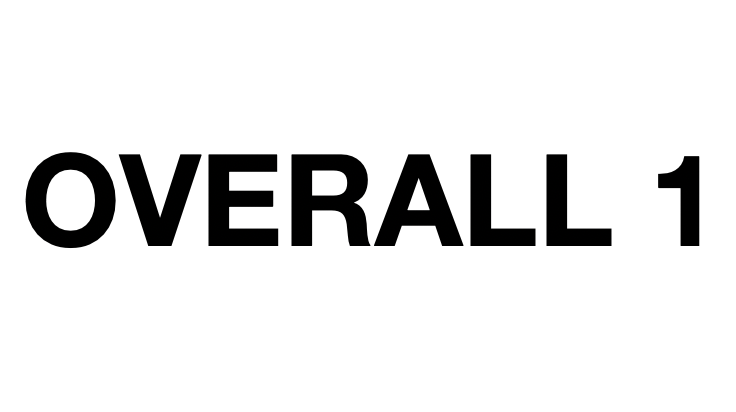
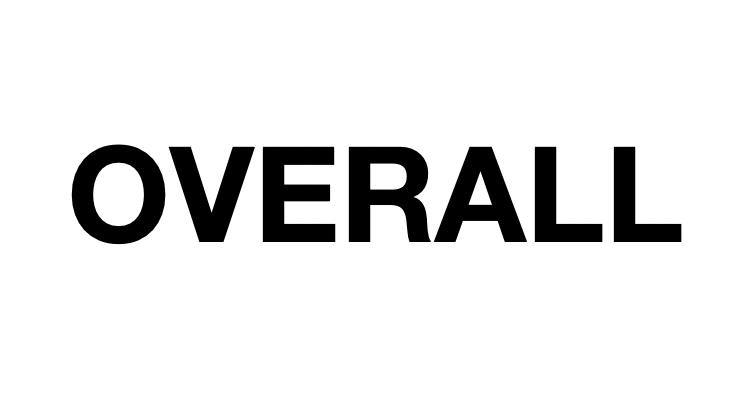
update

Changed region(s): [[0.0312, 0.3495, 0.9688, 0.6117]]

diff --git a/Miscellaneous Level /Miscellaneous.html b/Miscellaneous Level /Miscellaneous.html
@@ -133,7 +133,7 @@
         <li>writing-mode</li>
       </div>
 
-      <h4>Table</h4>
+      <h4><a href="https://devdocs.io/css/css_table">Table >></a></h4>
       <div>
         <li>border-collapse</li>
         <li>border-spacing</li>
@@ -143,7 +143,9 @@
         <li>vertical-align</li>
       </div>
 
-      <h4>Positioning</h4>
+      <h4>
+        <a href="https://devdocs.io/css/css_positioning">Positioning >></a>
+      </h4>
       <div>
         <li>bottom</li>
         <li>clear</li>
@@ -155,7 +157,7 @@
         <li>z-index</li>
       </div>
 
-      <h4>Overflow</h4>
+      <h4><a href="https://devdocs.io/css/css_overflow">Overflow >></a></h4>
       <div>
         <li>overflow</li>
         <li>overflow-block</li>
@@ -212,7 +214,7 @@
     </div>
 
     <!------------------------------------------------------------------------------ overall -->
-    <div class="h1"><h1>Miscellaneous Level 1 Overall</h1></div>
+    <div class="h1"><h1>Miscellaneous Level Overall</h1></div>
     <div class="overall">
       <ol>
         <!-- --------------------------------------------------- -->
@@ -595,112 +597,89 @@
           <li>Hash mark (#): bold smaller#</li>
           <li>Exclamation point (!): [ bold? smaller? ]!</li>
         </ul>
-      </ol>
 
-      <!--  -->
-      <a href=""><li>actual value</li></a>
-      <ol>
-        <li>
-          First, the specified value is determined based on the result of
-          cascading, inheritance, or using the initial value.
-        </li>
-        <li>
-          Next, the computed value is calculated according to the specification
-          (for example, a span with position: absolute will have its computed
-          display changed to block).
-        </li>
-        <li>Then, layout is calculated, resulting in the used value.</li>
-        <li>
-          Finally, the used value is transformed according to the limitations of
-          the local environment, resulting in the actual value.
-        </li>
-      </ol>
-      <!--  -->
-      <a href=""><li>computed value</li></a>
-      <ol>
-        <li>
-          Handling the special values inherit, initial, unset, and revert.
-        </li>
-        <li>
-          Doing the computation needed to reach the value described in the
-          "Computed value" line in the property's definition table.
-        </li>
-      </ol>
-      <!--  -->
-      <a href=""><li>used value</li></a>
+        <!--  -->
+        <a href=""><li>actual value</li></a>
+        <ol>
+          <li>
+            First, the specified value is determined based on the result of
+            cascading, inheritance, or using the initial value.
+          </li>
+          <li>
+            Next, the computed value is calculated according to the
+            specification (for example, a span with position: absolute will have
+            its computed display changed to block).
+          </li>
+          <li>Then, layout is calculated, resulting in the used value.</li>
+          <li>
+            Finally, the used value is transformed according to the limitations
+            of the local environment, resulting in the actual value.
+          </li>
+        </ol>
+        <!--  -->
+        <a href=""><li>computed value</li></a>
+        <ol>
+          <li>
+            Handling the special values inherit, initial, unset, and revert.
+          </li>
+          <li>
+            Doing the computation needed to reach the value described in the
+            "Computed value" line in the property's definition table.
+          </li>
+        </ol>
+        <!--  -->
+        <a href=""><li>used value</li></a>
+        <!--  -->
+        <a href=""><li>specified value</li></a>
+        <ol>
+          <li>
+            If the document's style sheet explicitly specifies a value for the
+            property, the given value will be used.
+          </li>
+          <li>
+            If the document's style sheet doesn't specify a value but it is an
+            inherited property, the value will be taken from the parent element.
+          </li>
+          <li>
+            If none of the above pertain, the element's initial value will be
+            used.
+          </li>
+        </ol>
+        <!--  -->
+        <a href=""
+          ><li>
+            attr(string | color | url | integer | number | length | em, ex, px,
+            rem, vw, vh, vmin, vmax, mm, cm, in, pt, or pc | angle | deg, grad,
+            rad | time | s,ms | frequency | Hz, kHz | % | )
+          </li></a
+        >
+        <!--  -->
+        <a href=""><li>counter()</li></a>
+        <ul>
+          <a href=""><li>counter-increment</li></a>
+          <a href=""><li>counter-reset</li></a>
+          <a href=""><li>counters()</li></a>
+        </ul>
+        <!--  -->
+        <a href=""
+          ><li>
+            unicode-bidi(together with the direction property, overrides this
+            algorithm and allows the developer to control the text embedding.):
+            normal | embed | bidi-override | isolate | isolate-override |
+            plaintext
+          </li></a
+        >
+        <!--  -->
+        <a href=""
+          ><li>
+            white-space: normal | nowrap | pre | pre-wrap | pre-line |
+            break-spaces
+          </li></a
+        >
 
-      <!--  -->
-      <a href=""
-        ><li>
-          attr(string | color | url | integer | number | length | em, ex, px,
-          rem, vw, vh, vmin, vmax, mm, cm, in, pt, or pc | angle | deg, grad,
-          rad | time | s,ms | frequency | Hz, kHz | % | )
-        </li></a
-      >
-      <a href=""><li>counter()</li></a>
-      <ul>
-        <a href=""><li>counter-increment</li></a>
-        <a href=""><li>counter-reset</li></a>
-        <a href=""><li>counters()</li></a>
-      </ul>
-
-      <a href=""><li>specified value</li></a>
-      <ol>
-        <li>
-          If the document's style sheet explicitly specifies a value for the
-          property, the given value will be used.
-        </li>
-        <li>
-          If the document's style sheet doesn't specify a value but it is an
-          inherited property, the value will be taken from the parent element.
-        </li>
-        <li>
-          If none of the above pertain, the element's initial value will be
-          used.
-        </li>
+        <!-- Box Model -->
+        <a href=""><li>CSS Box Model: Mastering margin collapsing</li></a>
       </ol>
-      <a href=""
-        ><li>
-          unicode-bidi(together with the direction property, overrides this
-          algorithm and allows the developer to control the text embedding.):
-          normal | embed | bidi-override | isolate | isolate-override |
-          plaintext
-        </li></a
-      >
-      <a href=""
-        ><li>
-          white-space: normal | nowrap | pre | pre-wrap | pre-line |
-          break-spaces
-        </li></a
-      >
-
-      <!-- Box Model -->
-      <a href=""><li>CSS Box Model: Mastering margin collapsing</li></a>
-      <!-- Overflow -->
-      <a href=""><li>CSS Overflow</li></a>
-      <ul>
-        <a href=""><li>overflow</li></a>
-      </ul>
-      <!-- Positioning -->
-      <a href=""><li>CSS Positioning</li></a>
-      <ul>
-        <a href=""><li>left</li></a>
-        <a href=""><li>right</li></a>
-        <a href=""><li>top</li></a>
-        <a href=""><li>bottom</li></a>
-        <a href=""><li>position</li></a>
-        <a href=""><li>z-index</li></a>
-      </ul>
-      <!-- Table -->
-      <a href=""><li>CSS Table</li></a>
-      <ul>
-        <a href=""><li>table-layout</li></a>
-        <a href=""><li>border-collapse</li></a>
-        <a href=""><li>border-spacing</li></a>
-        <a href=""><li>caption-side</li></a>
-        <a href=""><li>empty-cells</li></a>
-        <a href=""><li>vertical-align</li></a>
-      </ul>
     </div>
   </body>
 </html>

diff --git a/Home/home.html b/Home/home.html
@@ -375,7 +375,10 @@
         <br />
         <div class="a">
           <a href="">See Details ></a>
-          <a href="">See Demos ></a>
+          <a
+            href="file:///Users/estelle.wu/Desktop/css_html_doc_portpolio/Miscellaneous%20Level%20/Miscellaneous.html"
+            >See Demos ></a
+          >
         </div>
       </div>
 

diff --git a/Home/style.css b/Home/style.css
@@ -21,6 +21,7 @@
   height: 170px;
   margin: 10px;
 }
+
 .card p {
   display: block;
   margin: 10px;
